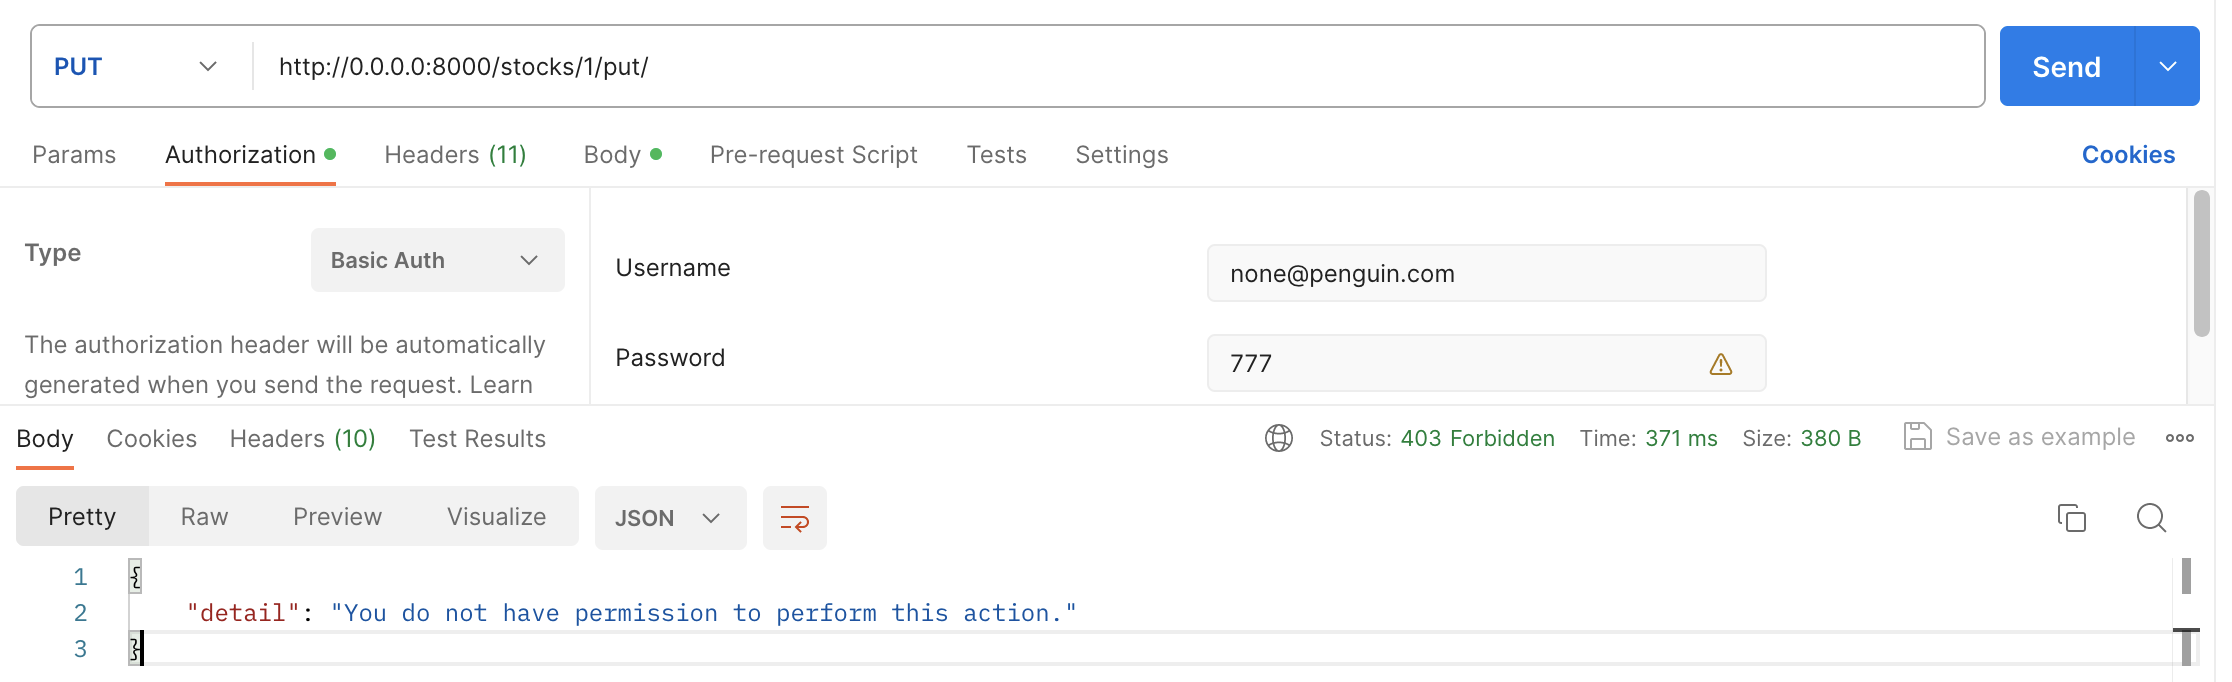
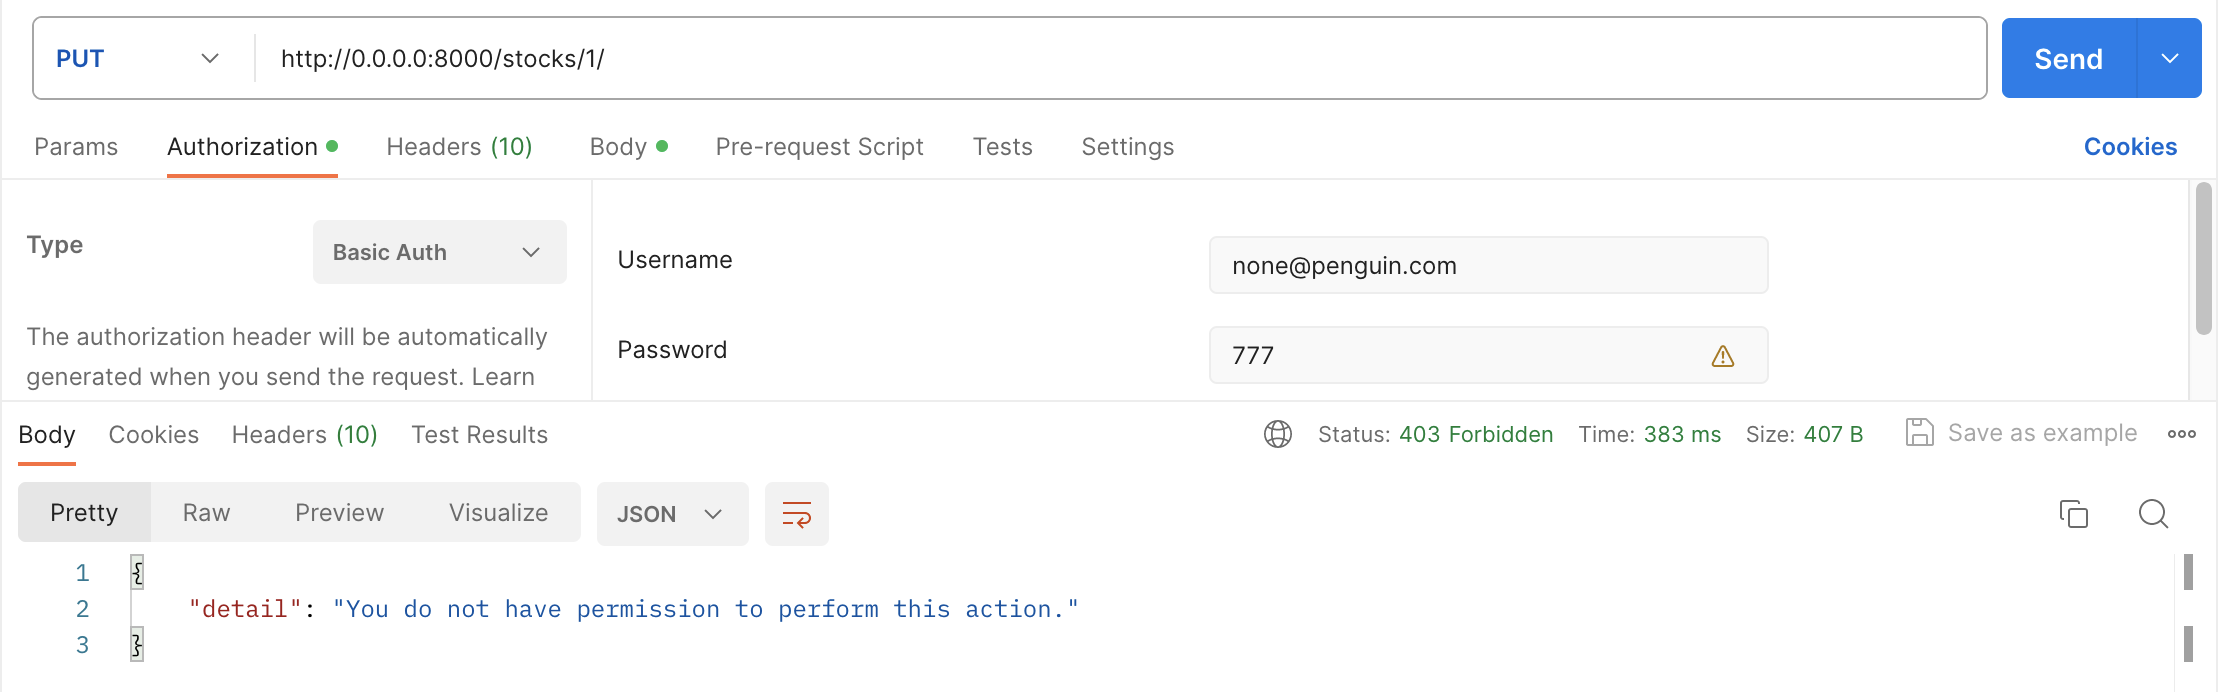
change lab5-py

diff --git a/tutorials/lab5-py/README.md b/tutorials/lab5-py/README.md
@@ -322,13 +322,15 @@ def login_view(request):
    ...
 
 class StockList(APIView):
-   permission_classes = [IsAuthenticated]
+   permission_classes = [IsAuthenticatedOrReadOnly]
    ...
 
 class StockDetail(APIView):
-    permission_classes = [IsAuthenticated]
+    permission_classes = [IsAuthenticatedOrReadOnly]
 
 ```
+IsAuthenticatedOrReadOnly указано по умолчанию в settings.py, так что снова приводить это в атрибутах классов Stock было необязательно. 
+
 Перечисленных способов недостаточно для нашего проекта. Аутентифицированные пользователи у нас делятся на клиента, менеджера и администратора. Клиент должен иметь доступ только к части запросов. Например, он может выполнить запрос на запись при добавлении нового бронирования, но не может добавить новую услугу. Поэтому нам необходимо реализовать пользовательские разрешения.
 
 Наша модель пользователя `User` содержит, помимо прочих, следующие логические поля:
@@ -372,6 +374,36 @@ class UserViewSet(viewsets.ModelViewSet):
             permission_classes = [IsAdmin]
         return [permission() for permission in permission_classes]
 
+def method_permission_classes(classes):
+    def decorator(func):
+        def decorated_func(self, *args, **kwargs):
+            self.permission_classes = classes        
+            self.check_permissions(self.request)
+            return func(self, *args, **kwargs)
+        return decorated_func
+    return decorator
+
+class StockDetail(APIView):
+    authentication_classes = [SessionAuthentication, BasicAuthentication]
+    permission_classes = [IsAuthenticatedOrReadOnly]
+
+    def get(self, request, pk, format=None):
+        ...
+
+    @method_permission_classes((IsAdmin,))
+    def put(self, request, pk, format=None):
+        ...
+
+    @method_permission_classes((IsAdmin,))
+    def put(self, request, pk, format=None):
+        ...
+
+@api_view(['Put'])
+@permission_classes([AllowAny])
+@authentication_classes([])
+def put_detail(request, pk, format=None):
+    ...
+
 ```
 Таким образом, мы разделили методы на группы на основании того, какое разрешение нужно проверять при попытке вызова этих методов. Если аутентифицированный пользователь попытается выполнить запрос, который ему не разрешено выполнять, он получит ответ ` 403 Permission Denied`.
 
@@ -382,12 +414,13 @@ class UserViewSet(viewsets.ModelViewSet):
 {"email": "check@list.ru", "password": "999", "is_superuser": true}
 ```
 
+![1.png](assets/2.png)
+
+Будем использовать Authorization в Postman, чтобы делать запросы от имени разных пользователей. Для put-методов в StockDetail установлено ограничение IsAdmin, так что пользователю none@penguin.com не удаётся его использовать, а вот у пользователя check@list.ru не возникает никаких проблем. 
+
 ![2.png](assets/2.png)
 
-Будем использовать Authorization в Postman, чтобы делать запросы от имени разных пользователей. Для отдельного put-метода установлено ограничение IsAdmin, так что пользователю none@penguin.com не удаётся его использовать, а вот у пользователя check@list.ru не возникает никаких проблем. 
-
 ![3.png](assets/3.png)
-
 
 ![4.png](assets/4.png)
 
